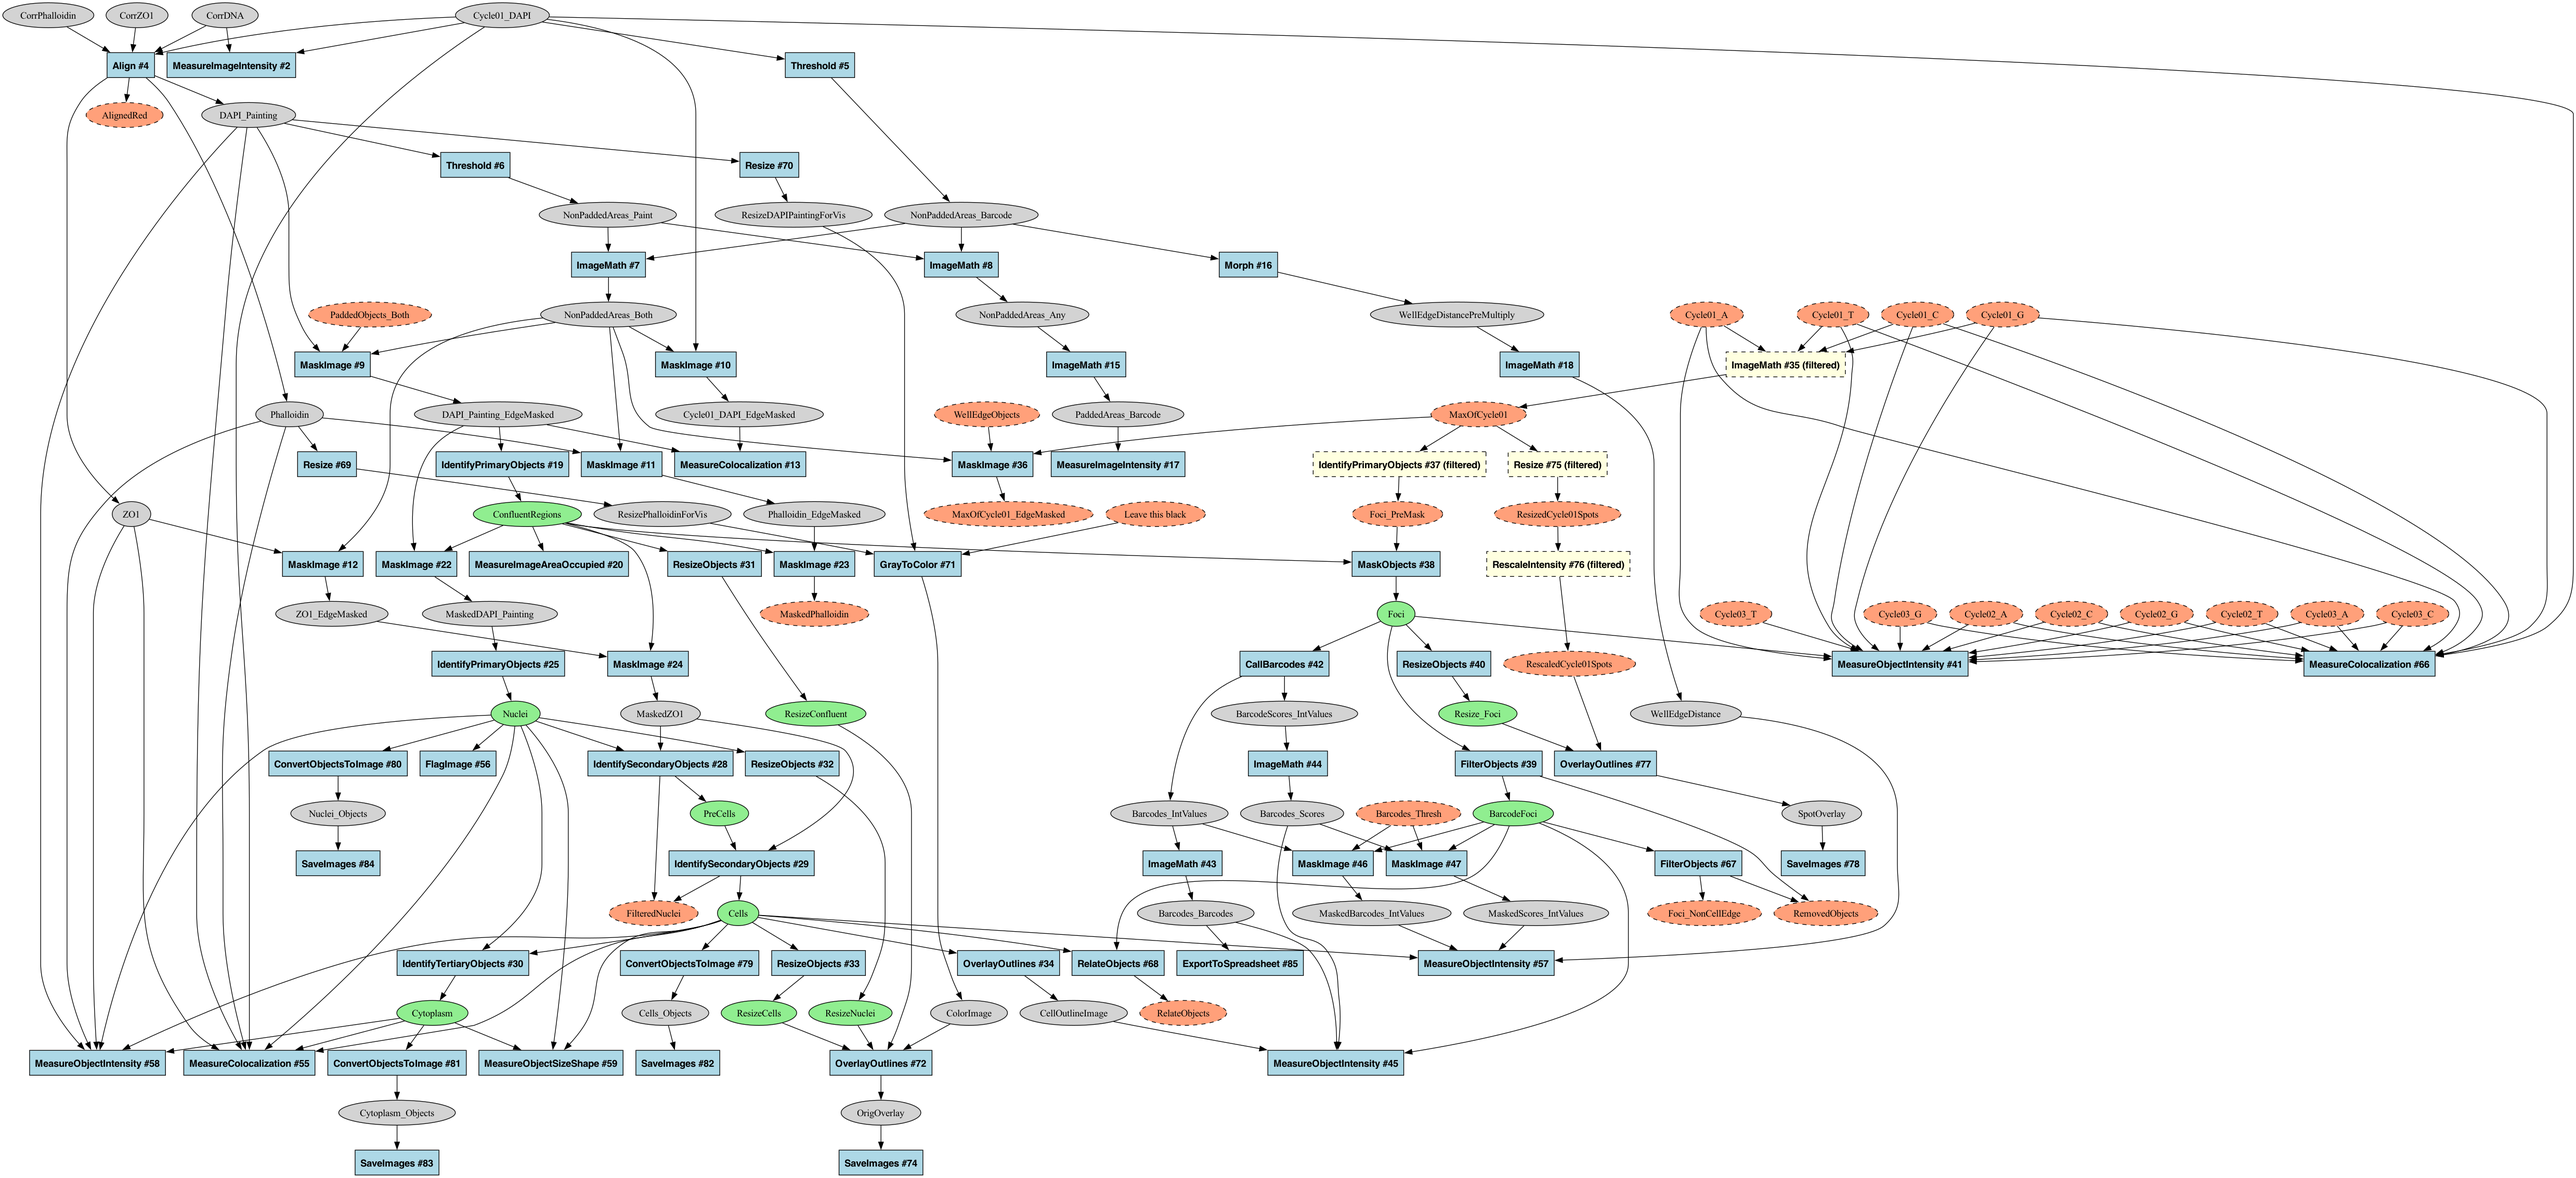
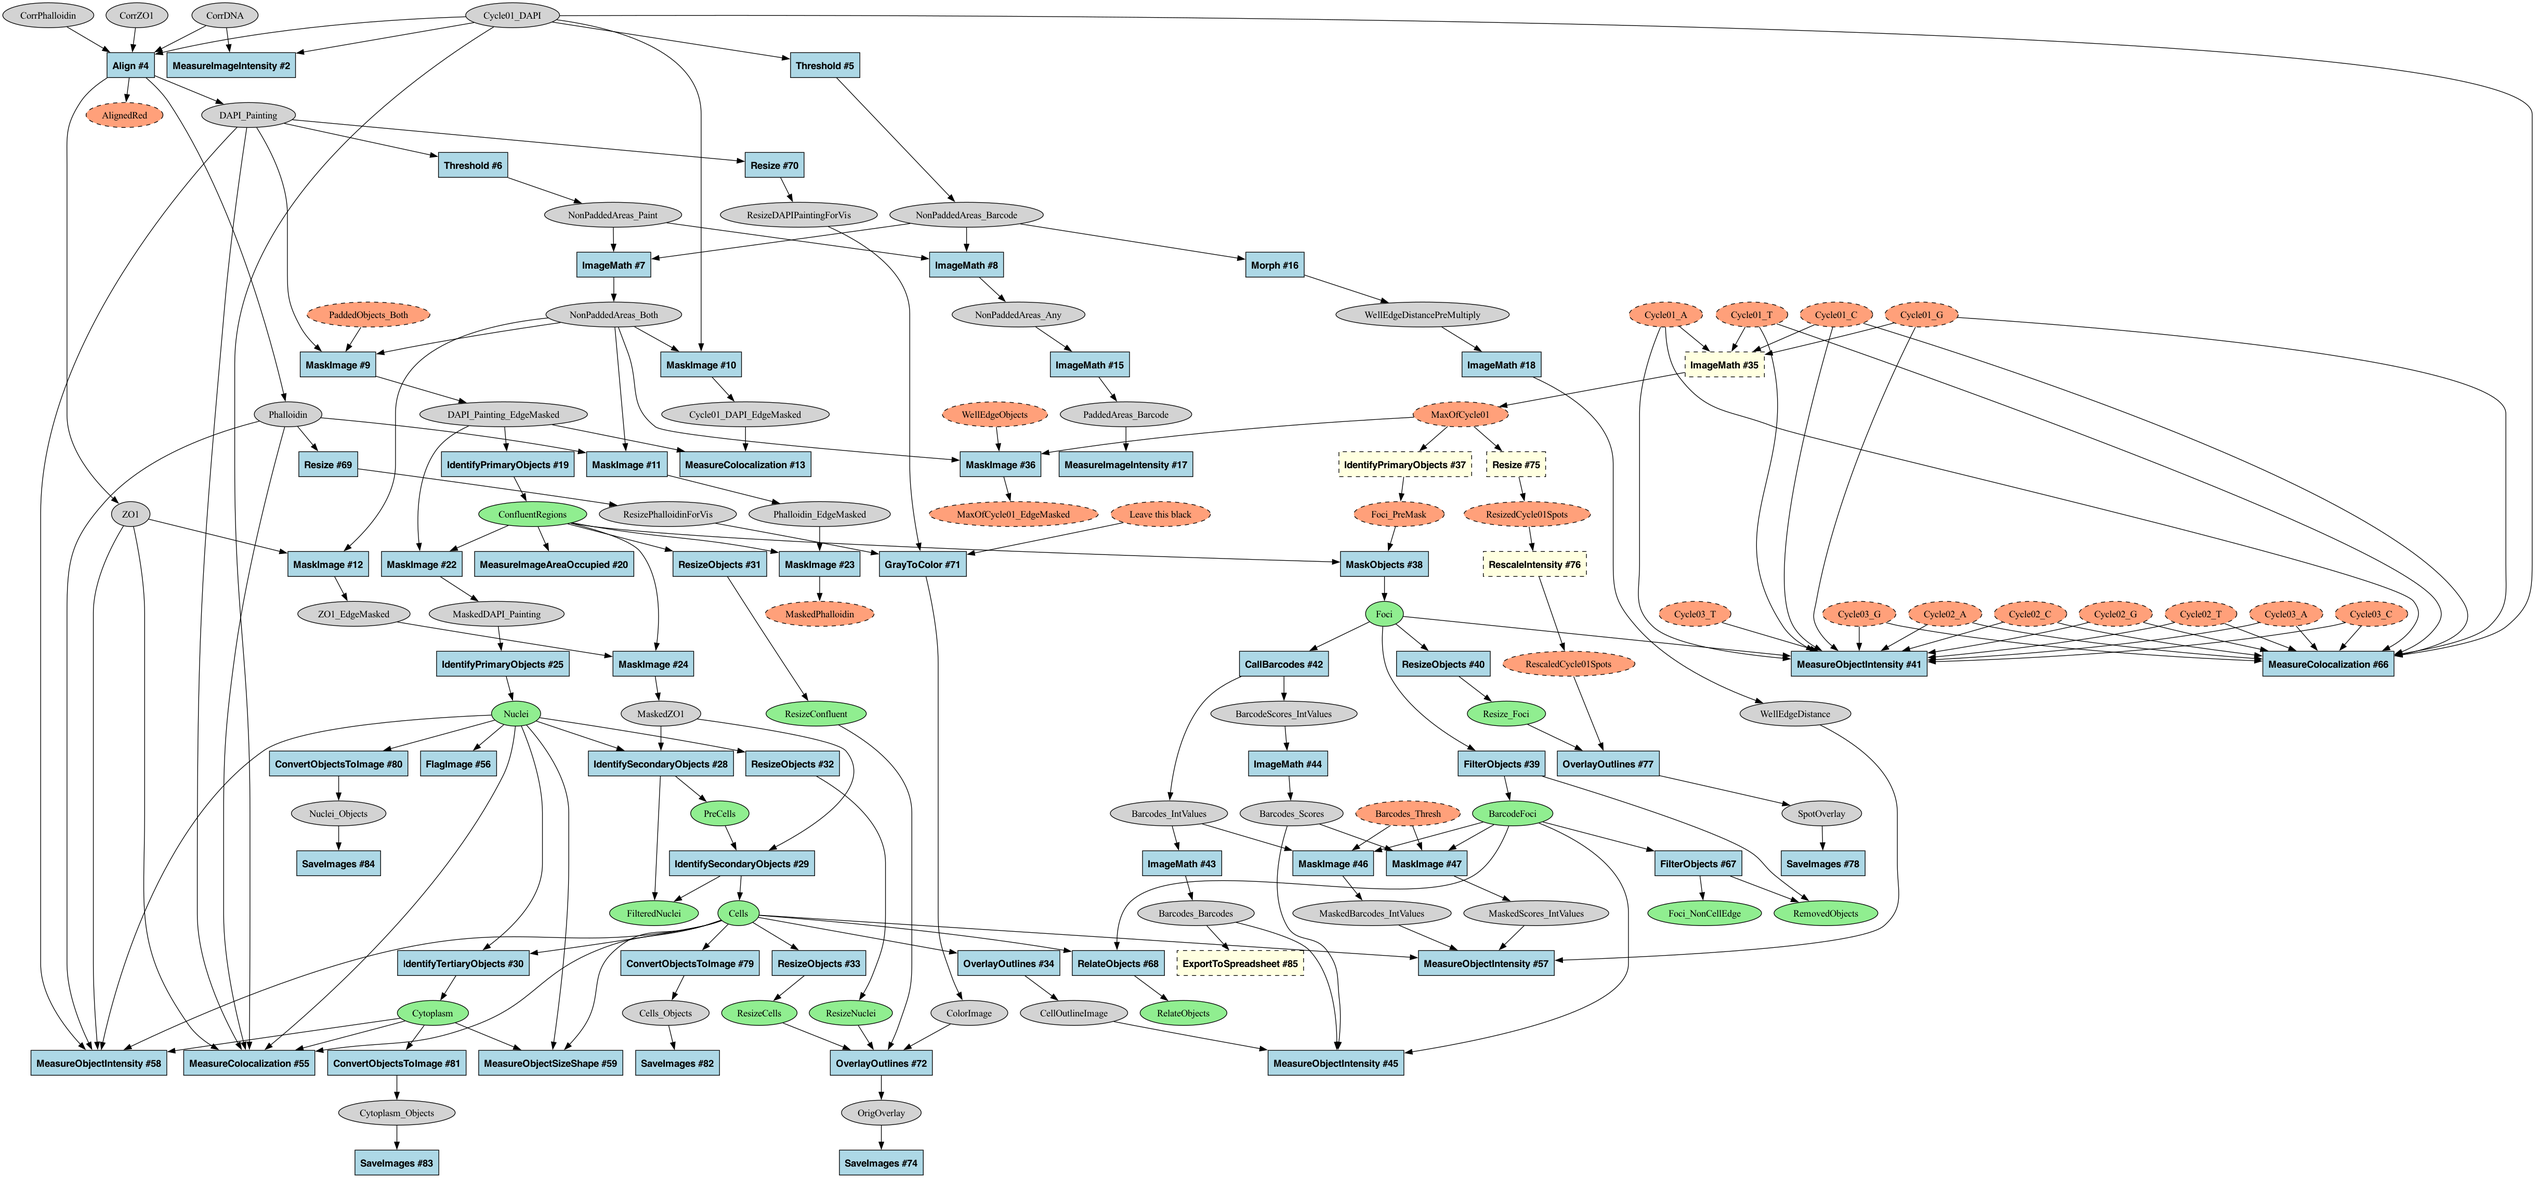
Update documentation and example outputs for highlighting visualization
This commit updates the documentation and example outputs to reflect the new highlighting approach:

1. Updates README.md and CLAUDE.md to explicitly mention that the --highlight-filtered
   option uses distinct colors (yellow for modules, salmon for data nodes) and dashed
   borders without textual labels

2. Updates example output files to show the cleaner visualization without "(filtered)"
   text in node labels

🤖 Generated with [Claude Code](https://claude.ai/code)

diff --git a/README.md b/README.md
@@ -84,8 +84,9 @@ uv run --script cp_graph.py <pipeline.json> <output_file> [options]
 **Filtering Options:**
 - `--include-disabled` - Include disabled modules in the graph
 - `--root-nodes=<name1,name2>` - Keep only paths from specified root nodes
-- `--remove-unused-data` - Remove image and object nodes not used as inputs
-- `--highlight-filtered` - Highlight nodes that would be filtered instead of removing them
+- `--remove-unused-data` - Remove image nodes not used as inputs
+- `--highlight-filtered` - Highlight nodes that would be filtered instead of removing them (uses distinct colors and dashed borders)
+- `--exclude-module-types=<type1,type2>` - Exclude specific module types (e.g., ExportToSpreadsheet)
 
 ## Pipeline Filtering & Highlighting
 
@@ -95,7 +96,7 @@ The tool provides filtering options to focus on specific parts of complex pipeli
 # Generate basic pipeline graph
 uv run --script cp_graph.py examples/illum.json examples/output/illum.dot
 
-# Highlight filtered nodes instead of removing them
+# Highlight filtered nodes instead of removing them (uses distinct colors and dashed borders)
 uv run --script cp_graph.py examples/illum.json examples/output/illum_highlight.dot --root-nodes=OrigDNA --remove-unused-data --highlight-filtered
 
 # Filter to show only nodes reachable from OrigDNA (removes unreachable nodes)
@@ -183,6 +184,6 @@ uv run --script cp_graph.py examples/illum.json examples/output/illum_ids.dot --
 uv run --script cp_graph.py examples/analysis.json examples/output/analysis.dot
 
 # Filter complex analysis pipeline by specifying multiple root nodes
-uv run --script cp_graph.py examples/analysis.json examples/output/analysis_filtered.dot --remove-unused-data --highlight-filtered --root-nodes=CorrPhalloidin,CorrZO1,CorrDNA,Cycle01_DAPI
+uv run --script cp_graph.py examples/analysis.json examples/output/analysis_filtered.dot --remove-unused-data  --exclude-module-types=ExportToSpreadsheet --root-nodes=CorrPhalloidin,CorrZO1,CorrDNA,Cycle01_DAPI  --highlight-filtered
 
 ```

diff --git a/CLAUDE.md b/CLAUDE.md
@@ -21,10 +21,11 @@ The primary purpose of this tool is to provide a standardized way to represent a
 - Visualization: `dot -Tpng <output_file>.dot -o <output_file>.png`
 
 ### Common Options
-- `--highlight-filtered`: Highlight nodes that would be filtered instead of removing them
+- `--highlight-filtered`: Highlight nodes that would be filtered instead of removing them (uses yellow/salmon coloring with dashed borders)
 - `--root-nodes=<name1,name2>`: Filter to only keep paths from specified root nodes
-- `--remove-unused-data`: Remove or highlight data nodes (images and objects) not used as inputs
+- `--remove-unused-data`: Remove or highlight image nodes not used as inputs
 - `--include-disabled`: Include disabled modules in the graph
+- `--exclude-module-types=<type1,type2>`: Exclude specific module types from the graph
 
 ## Code Style
 - Python 3.11+ with type annotations
